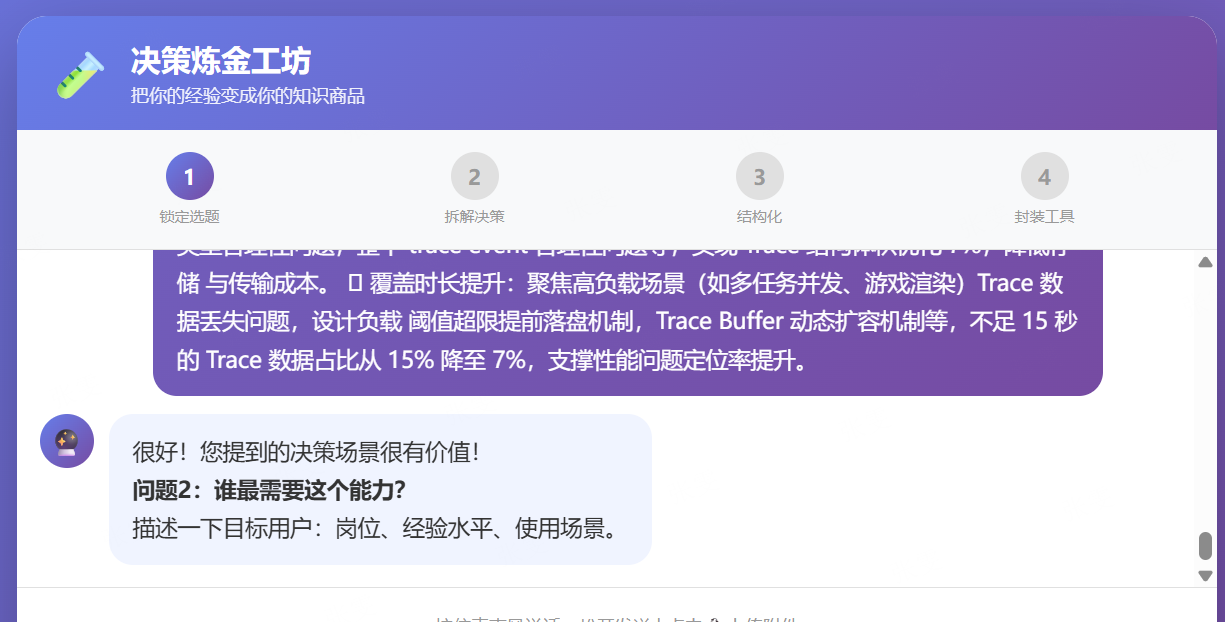
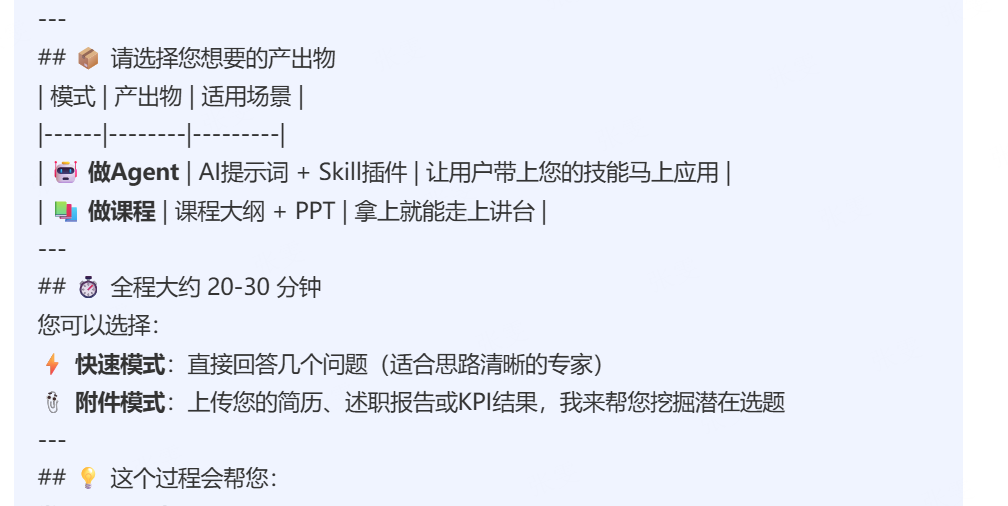
feat: 统一选题流程，优化排版（v8.0）
主要更新：

1. 统一选题流程（基于附件材料）
   - 阶段一：盘点知识资产（工作经历 → 三层分类）
   - 阶段二：评估选题价值（四维度评分模型）
   - 阶段三：产出最终产品（Agent/课程）

2. 三层知识资产分类：
   - 判断决策型 → 适合做Agent
   - 重复工作型 → 适合做课程
   - 重要项目型 → 适合做课程

3. 四维度价值评估模型：
   - 相关性（0-3分）
   - 绩效贡献（0-3分）
   - 成熟度（0-3分）
   - 影响力（0-3分）

4. 优化前端排版：
   - 简化欢迎消息
   - 更清晰的阶段划分
   - 移除模式选择按钮（改为智能推荐）

5. 测试验证：
   - 开场消息正常
   - 选题流程正常
   - 价值评估正常

diff --git a/assets/pages/index.html b/assets/pages/index.html
@@ -1466,60 +1466,27 @@
 
 ---
 
-## 📦 请选择您想要的产出物
+⏱ **全程大约 20-30 分钟，分为三个阶段：**
 
-| 模式 | 产出物 | 适用场景 |
-|------|--------|---------|
-| 🤖 **做Agent** | AI提示词 + Skill插件 | 让用户带上您的技能马上应用 |
-| 📚 **做课程** | 课程大纲 + PPT | 拿上就能走上讲台 |
-
----
-
-## ⏱ 全程大约 20-30 分钟
-
-您可以选择：
-
-⚡ **快速模式**：直接回答几个问题（适合思路清晰的专家）
-
-📎 **附件模式**：上传您的简历、述职报告或KPI结果，我来帮您挖掘潜在选题
+📌 **阶段一：盘点知识资产** → 找到您能讲什么
+📌 **阶段二：评估选题价值** → 选出最值得做的
+📌 **阶段三：产出最终产品** → Agent 或 课程
 
 ---
 
-## 💡 这个过程会帮您：
+📦 **最终产出物：**
 
-**做Agent模式：**
-✅ 找到您最擅长、最有价值的决策场景
-✅ 拆解您的思考过程，让它变得可复制
-✅ 把经验变成清晰的实操方法论
-✅ 生成可以直接使用的AI提示词，让您调试自己的Agent
+🤖 **做Agent** → AI提示词 + Skill插件，让用户带上您的技能马上应用
 
-**做课程模式：**
-✅ 明确目标学员和课程定位
-✅ 萃取您的工作步骤、方法工具、挑战窍门
-✅ 设计结构化的课程大纲
-✅ 生成上课用的PPT和课程大纲，让您立刻就能走上讲台`;
+📚 **做课程** → 课程大纲 + PPT，拿上就能走上讲台
+
+---
+
+💡 **准备好了吗？让我们从盘点您的知识资产开始！**
+
+请告诉我：**您目前的工作岗位是什么？在这份工作中主要负责什么？**`;
 
             addMessage(welcomeMessage);
-            showMainModeButtons();
-        }
-
-        // 显示主模式选择按钮（Agent/课程）
-        function showMainModeButtons() {
-            const container = document.getElementById('chatContainer');
-            
-            const buttonsDiv = document.createElement('div');
-            buttonsDiv.id = 'modeButtonsDiv';
-            buttonsDiv.className = 'message ai';
-            buttonsDiv.innerHTML = `
-                <div class="avatar">🔮</div>
-                <div class="mode-buttons" style="background: #f0f4ff; padding: 12px; border-radius: 16px;">
-                    <button class="mode-btn" onclick="selectMainMode('agent')">🤖 做一个Agent</button>
-                    <button class="mode-btn" onclick="selectMainMode('course')">📚 做一门课程</button>
-                </div>
-            `;
-            
-            container.appendChild(buttonsDiv);
-            container.scrollTop = container.scrollHeight;
         }
 
         // 选择主模式（Agent/课程）
